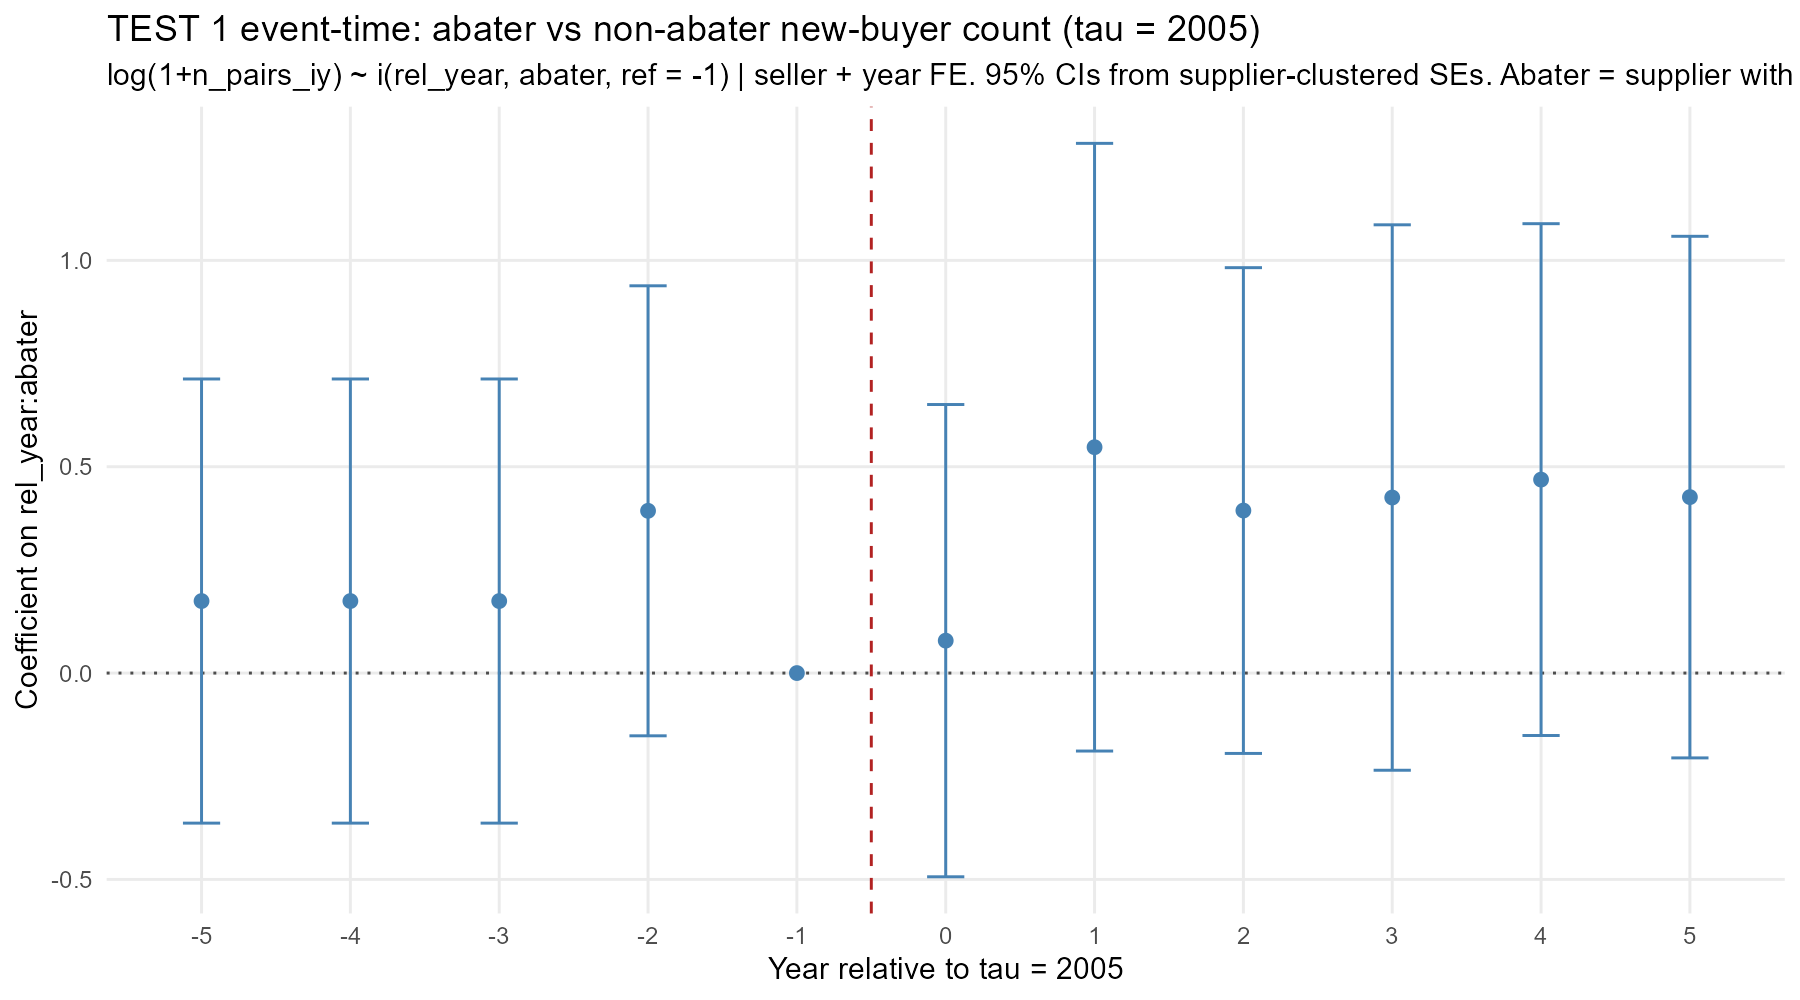
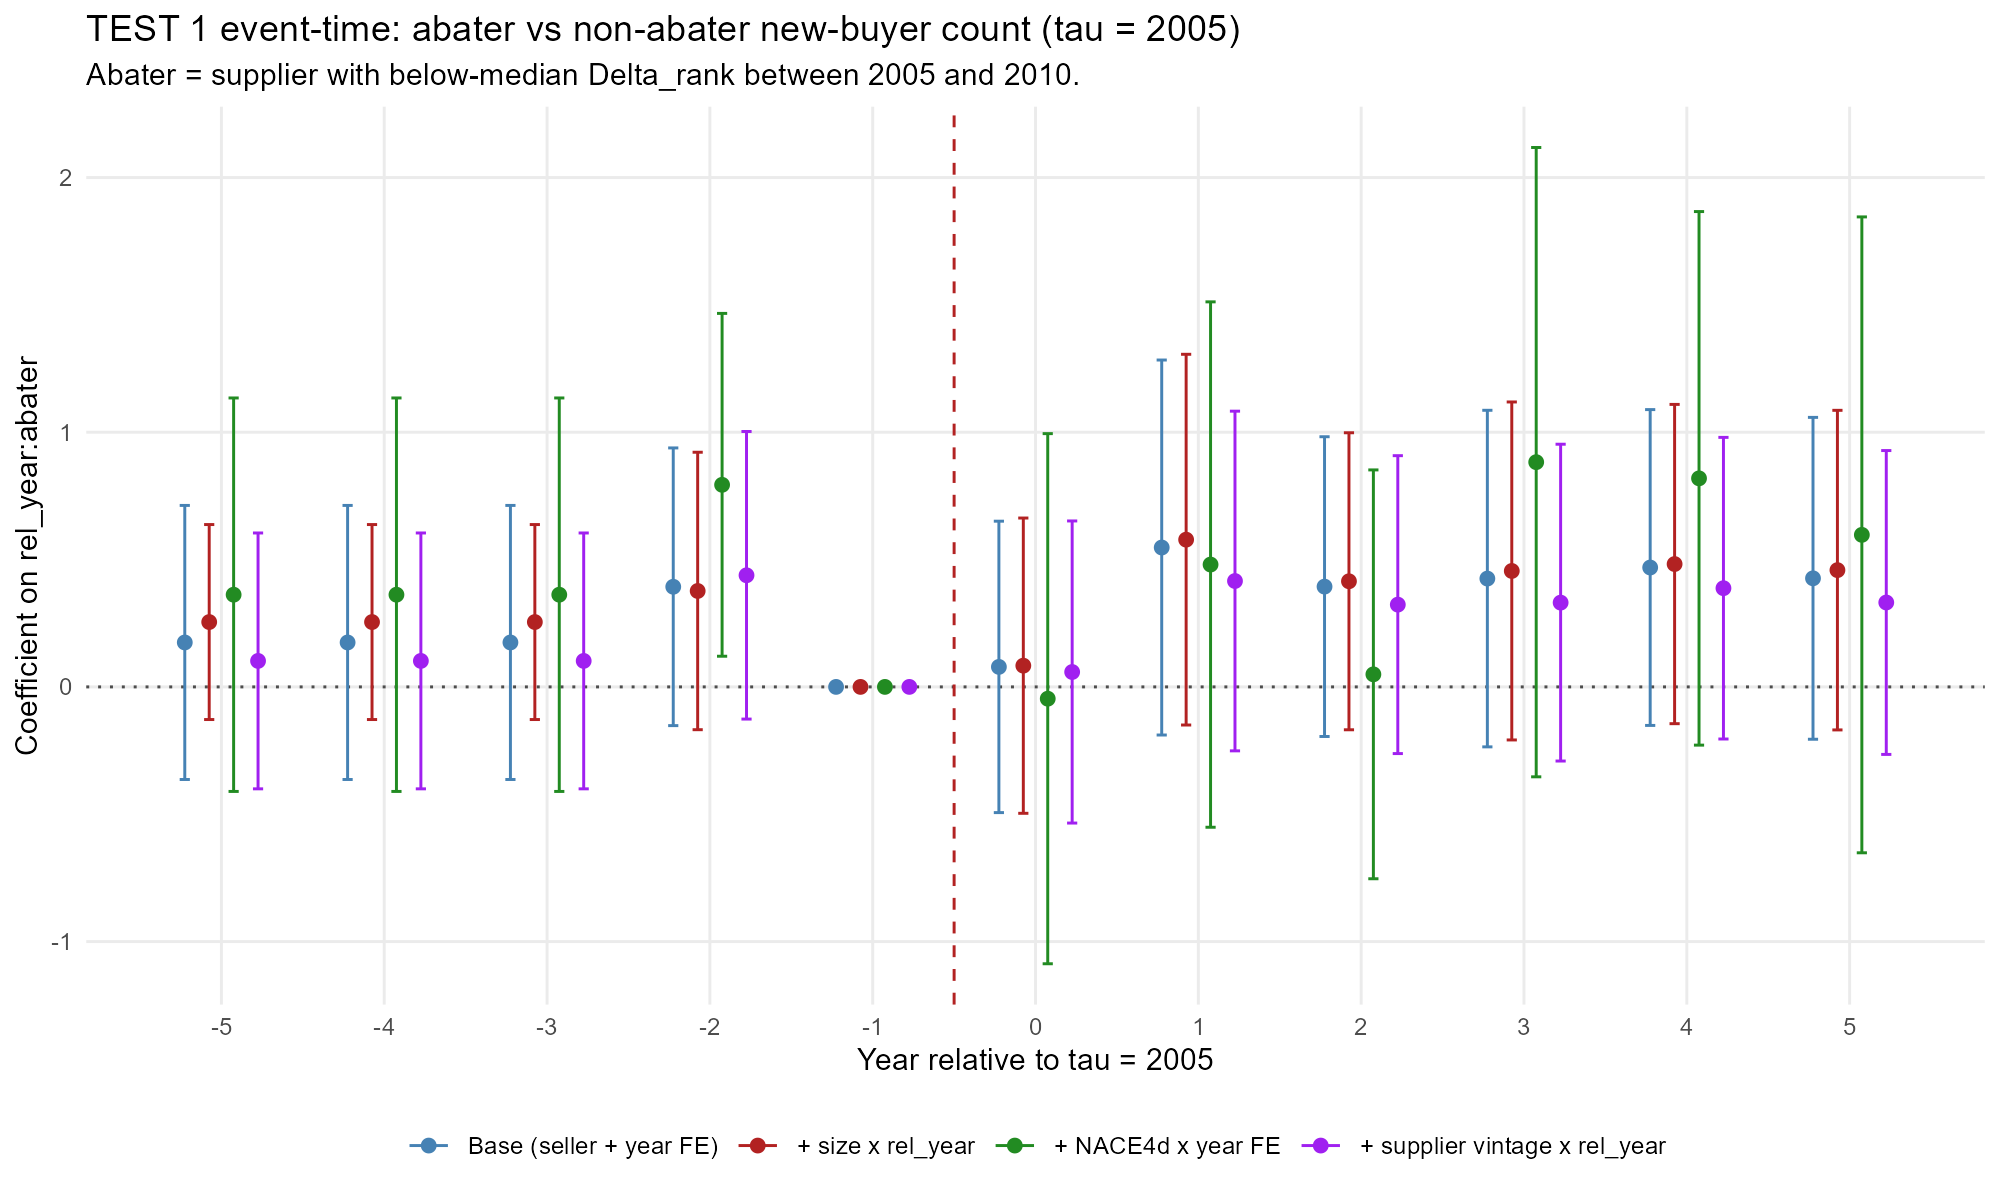
trying to fix pre-trends in omega rank

diff --git a/output_rmd/tables/phase4_new_relationships_omega_rank_supplier_test_coefs.tex b/output_rmd/tables/phase4_new_relationships_omega_rank_supplier_test_coefs.tex
@@ -1,5 +1,5 @@
 % latex table generated in R 4.4.1 by xtable 1.8-4 package
-% Fri May 15 22:08:20 2026
+% Fri May 15 22:41:54 2026
 \begin{table}[ht]
 \centering
 \caption{Supplier-level decomposition tests. TEST 2 (cross-section): does pre-event popularity correlate with abatement? Negative coefficient on log(1 + n\_new\_pre) means popular suppliers abated more. TEST 1 (supplier-period DiD): do abaters gain more new buyers post-tau? Positive coefficient on post:abater means yes (Story B; behavior change). SEs clustered at the appropriate level.} 
@@ -12,7 +12,11 @@ TEST\\_3\\_rank\\_mean\\_reversion &  2005 & rank\\_pre & -0.9457 & 0.1340 & 0.0
   TEST\\_2\\_popularity\\_vs\\_abatement &  2005 & log\\_n\\_pre & -0.0126 & 0.0201 & 0.5375 &    89 \\ 
   TEST\\_2\\_popularity\\_vs\\_abatement &  2017 & log\\_n\\_pre & -0.0116 & 0.0160 & 0.4766 &   120 \\ 
   TEST\\_1\\_storyA\\_vs\\_B &  2005 & post:abater & 0.3335 & 0.2997 & 0.2680 &   238 \\ 
+  TEST\\_1\\_storyA\\_vs\\_B\\_size\\_ctrl &  2005 & post:abater & 0.3801 & 0.2718 & 0.1646 &   238 \\ 
+  TEST\\_1\\_storyA\\_vs\\_B\\_size\\_ctrl &  2005 & post:log\\_customers\\_pre & -0.3522 & 0.1030 & 0.0009 &   238 \\ 
   TEST\\_1\\_storyA\\_vs\\_B &  2017 & post:abater & 0.0524 & 0.1382 & 0.7054 &   292 \\ 
+  TEST\\_1\\_storyA\\_vs\\_B\\_size\\_ctrl &  2017 & post:abater & 0.0255 & 0.1375 & 0.8529 &   292 \\ 
+  TEST\\_1\\_storyA\\_vs\\_B\\_size\\_ctrl &  2017 & post:log\\_customers\\_pre & -0.0854 & 0.0609 & 0.1631 &   292 \\ 
    \bottomrule
 \end{tabular}
 \end{table}
